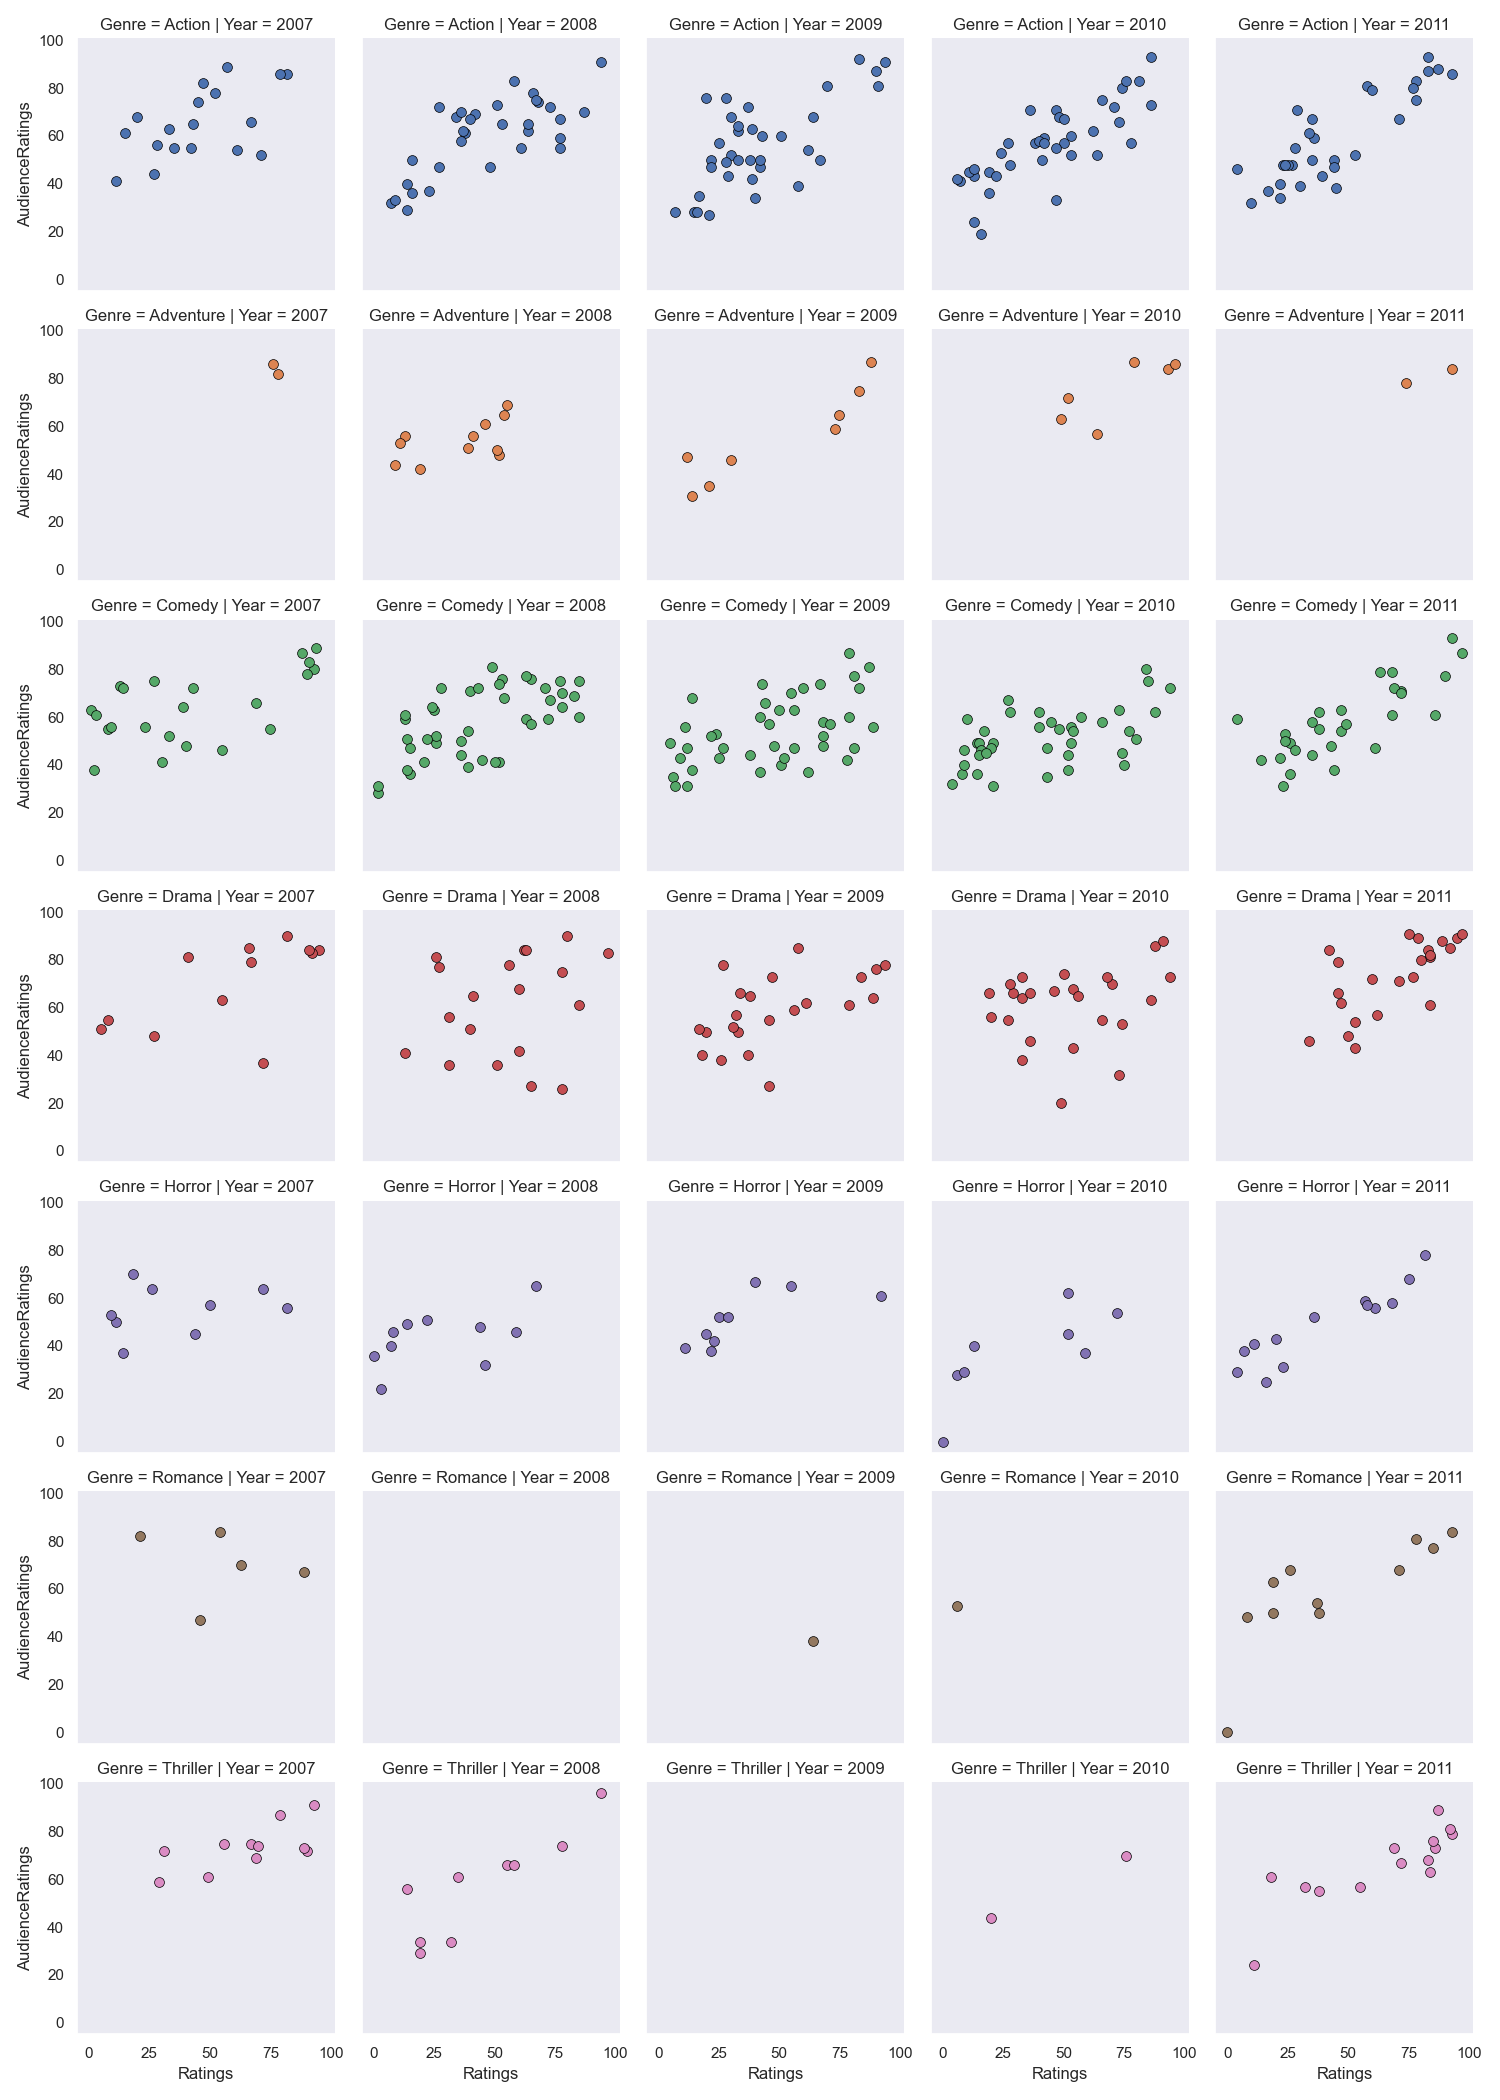
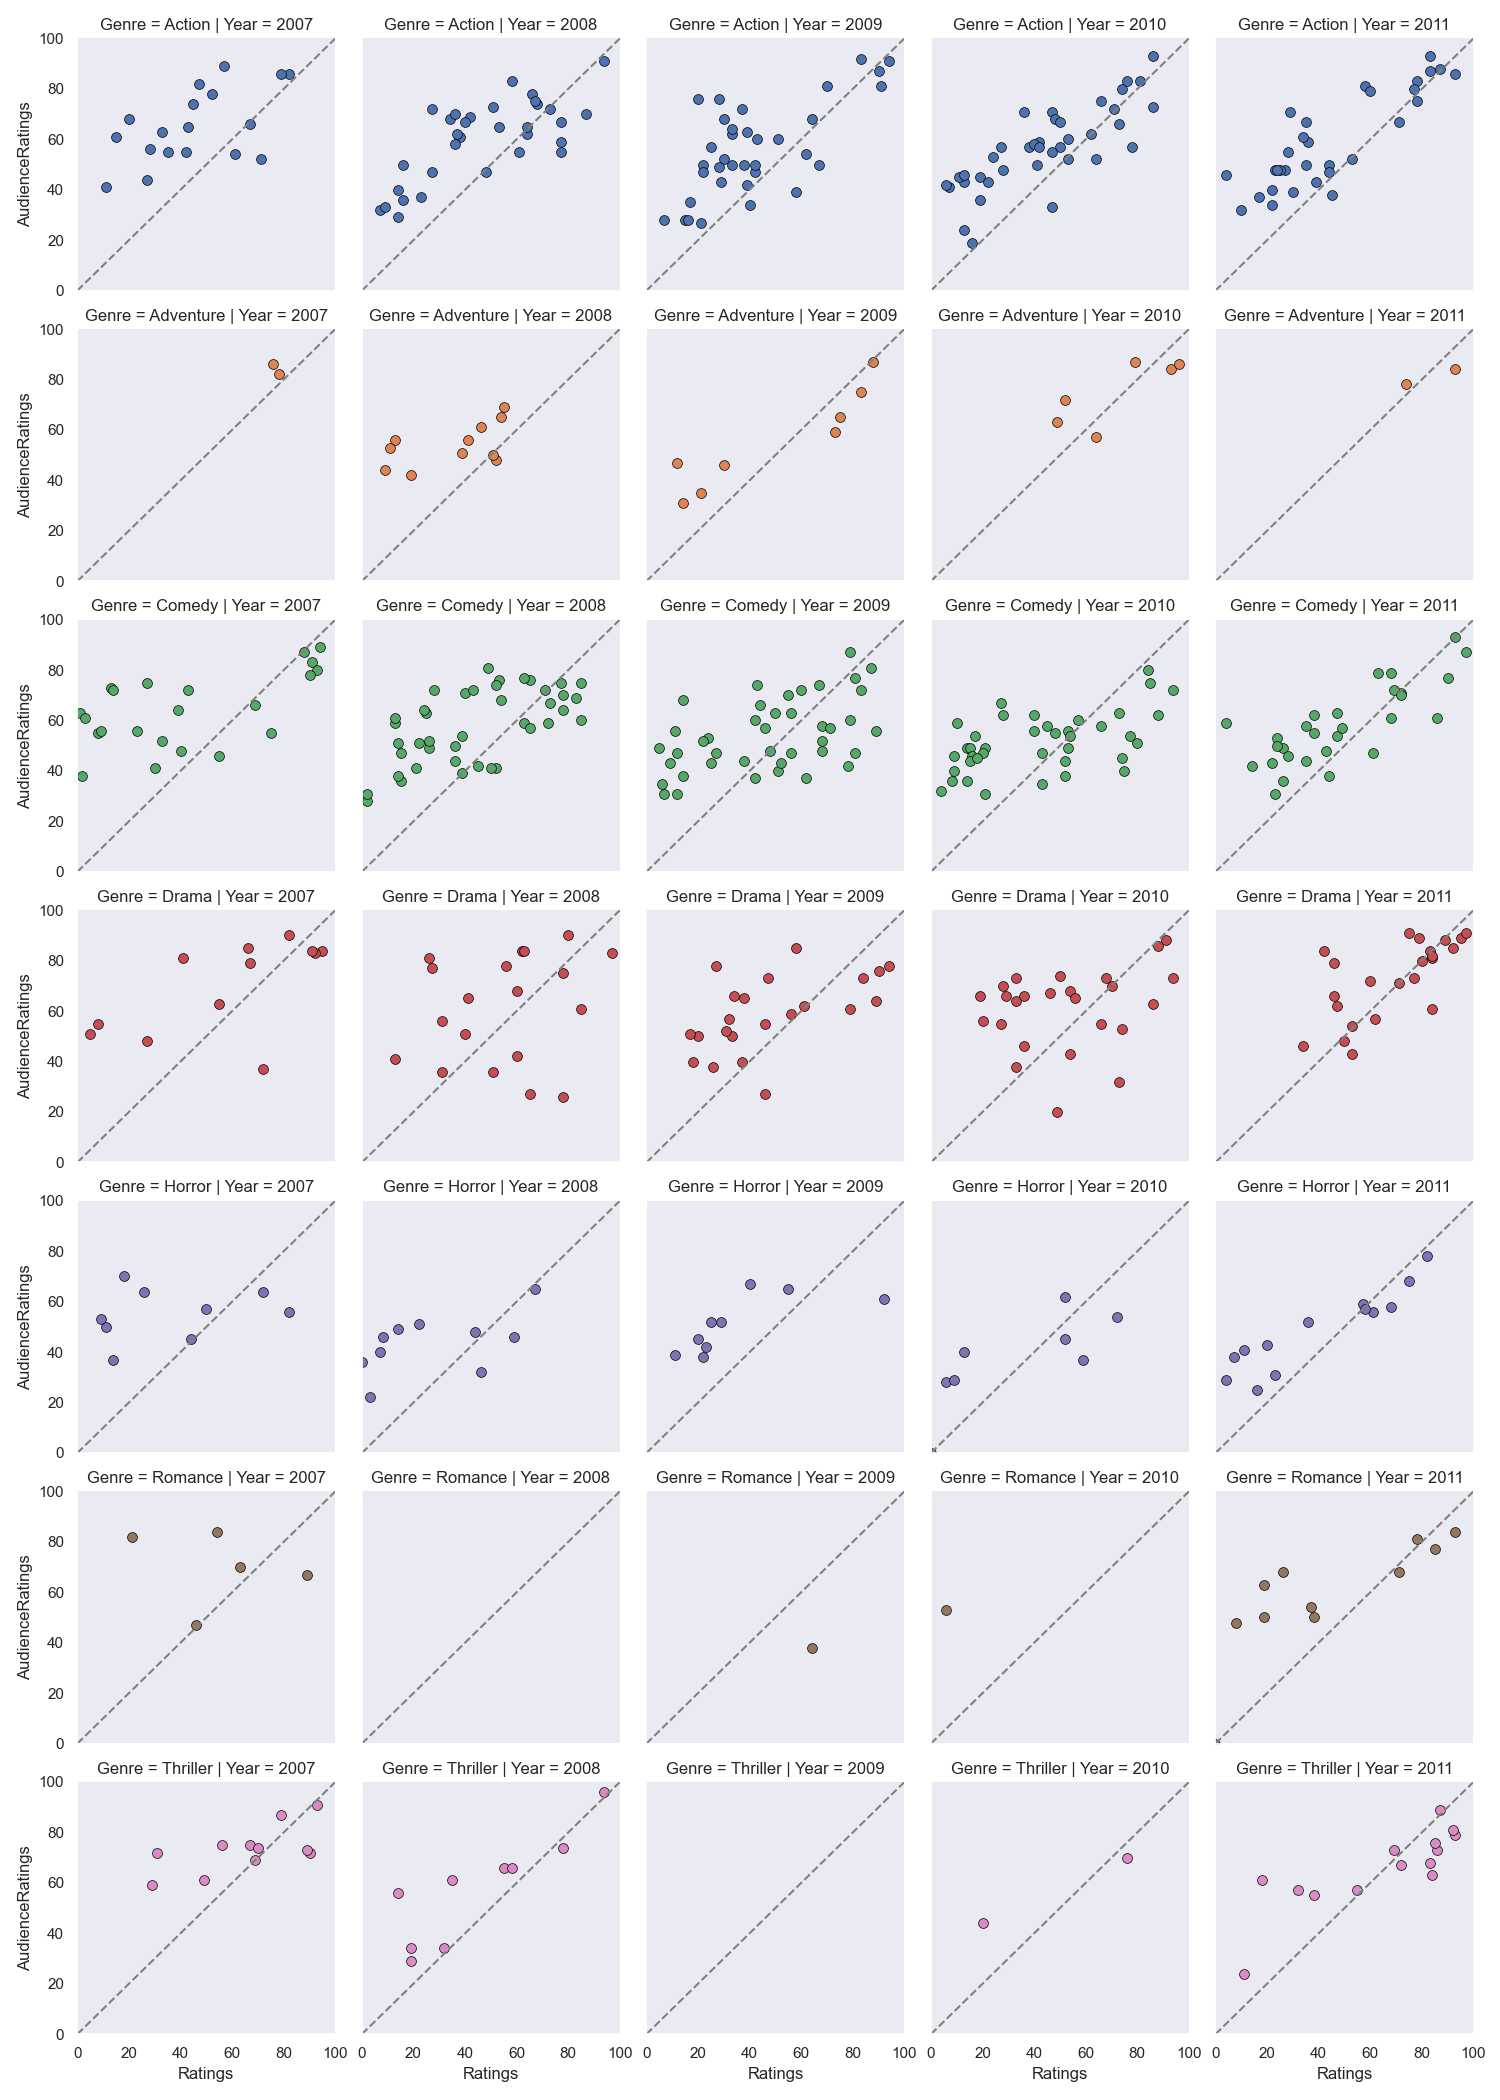
py

diff --git a/ratings.py b/ratings.py
@@ -119,6 +119,10 @@ plt.show()
 g = sns.FacetGrid(data, row = 'Genre', col = 'Year', hue = 'Genre')
 kws = dict(s=50, linewidth=0.5, edgecolor='black')
 g = g.map(plt.scatter, "Ratings", "AudienceRatings",**kws)
+g.set(xlim = (0,100), ylim = (0,100))
+for ax in g.axes.flat:
+    ax.plot((0,100), (0,100), c='gray', ls = '--')
+g.add_legend()
 plt.show()
 
 g = sns.FacetGrid(data, row = 'Genre', col = 'Year', hue = 'Genre')
